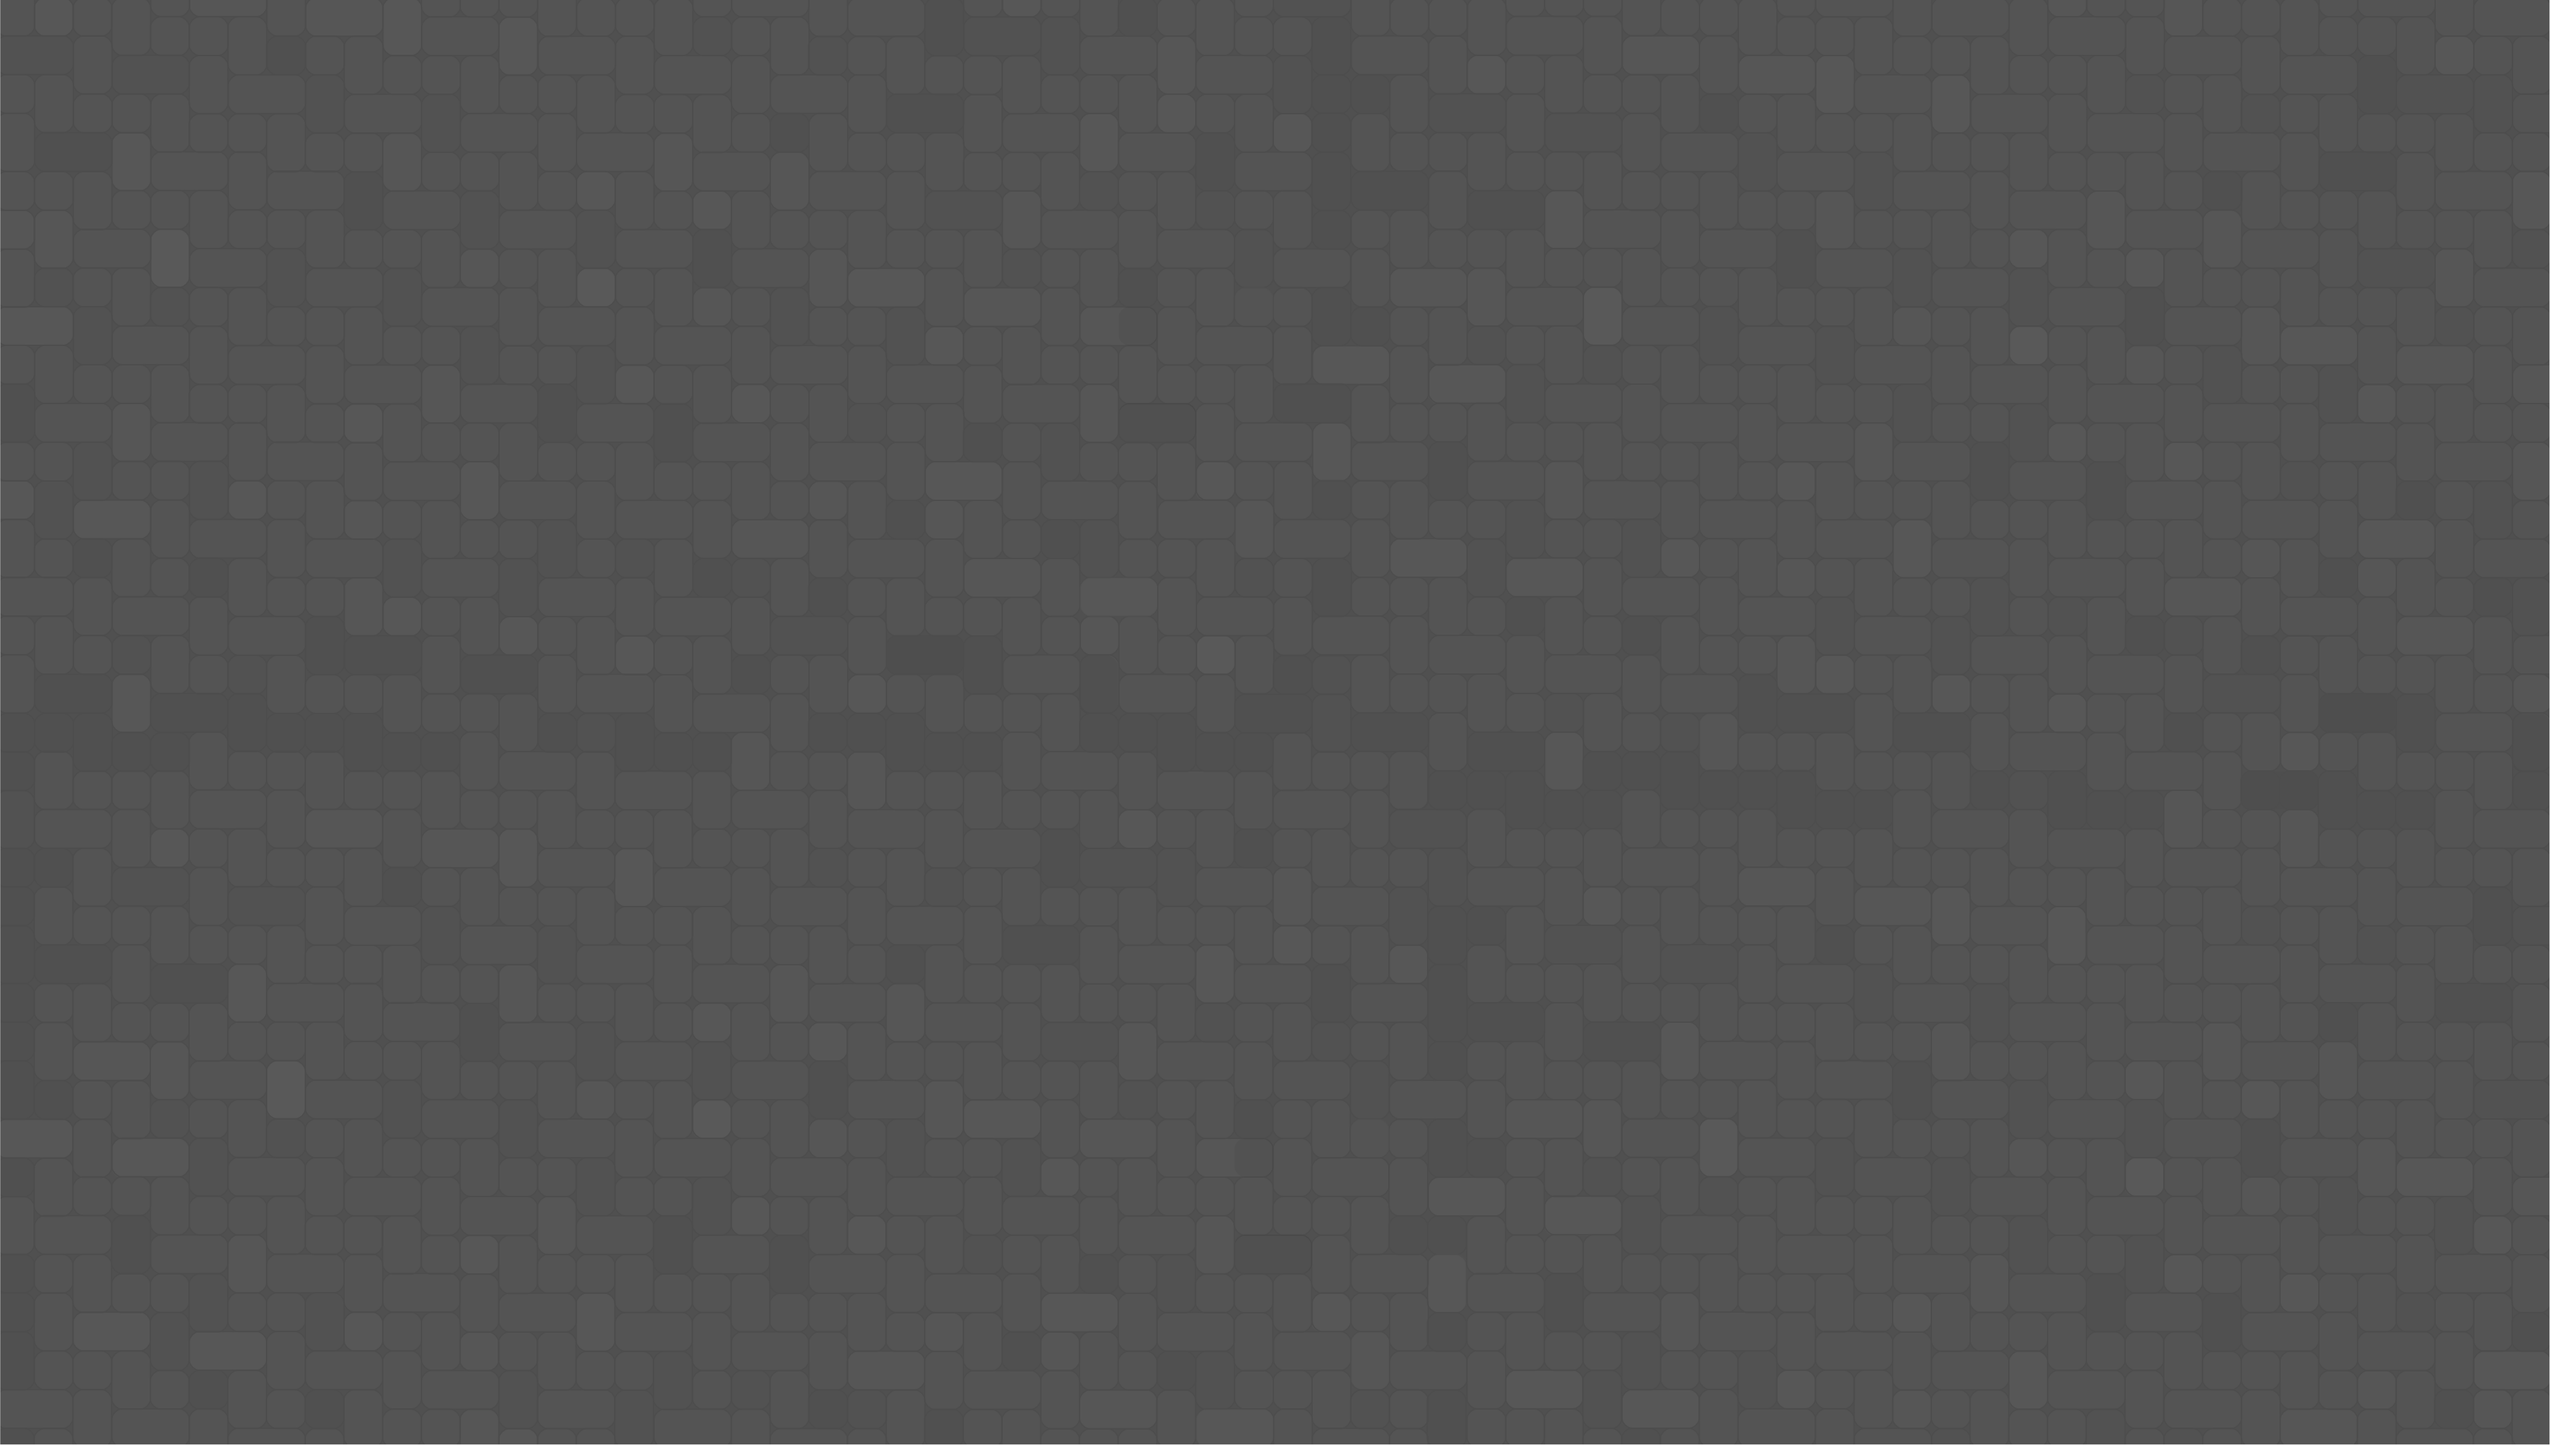
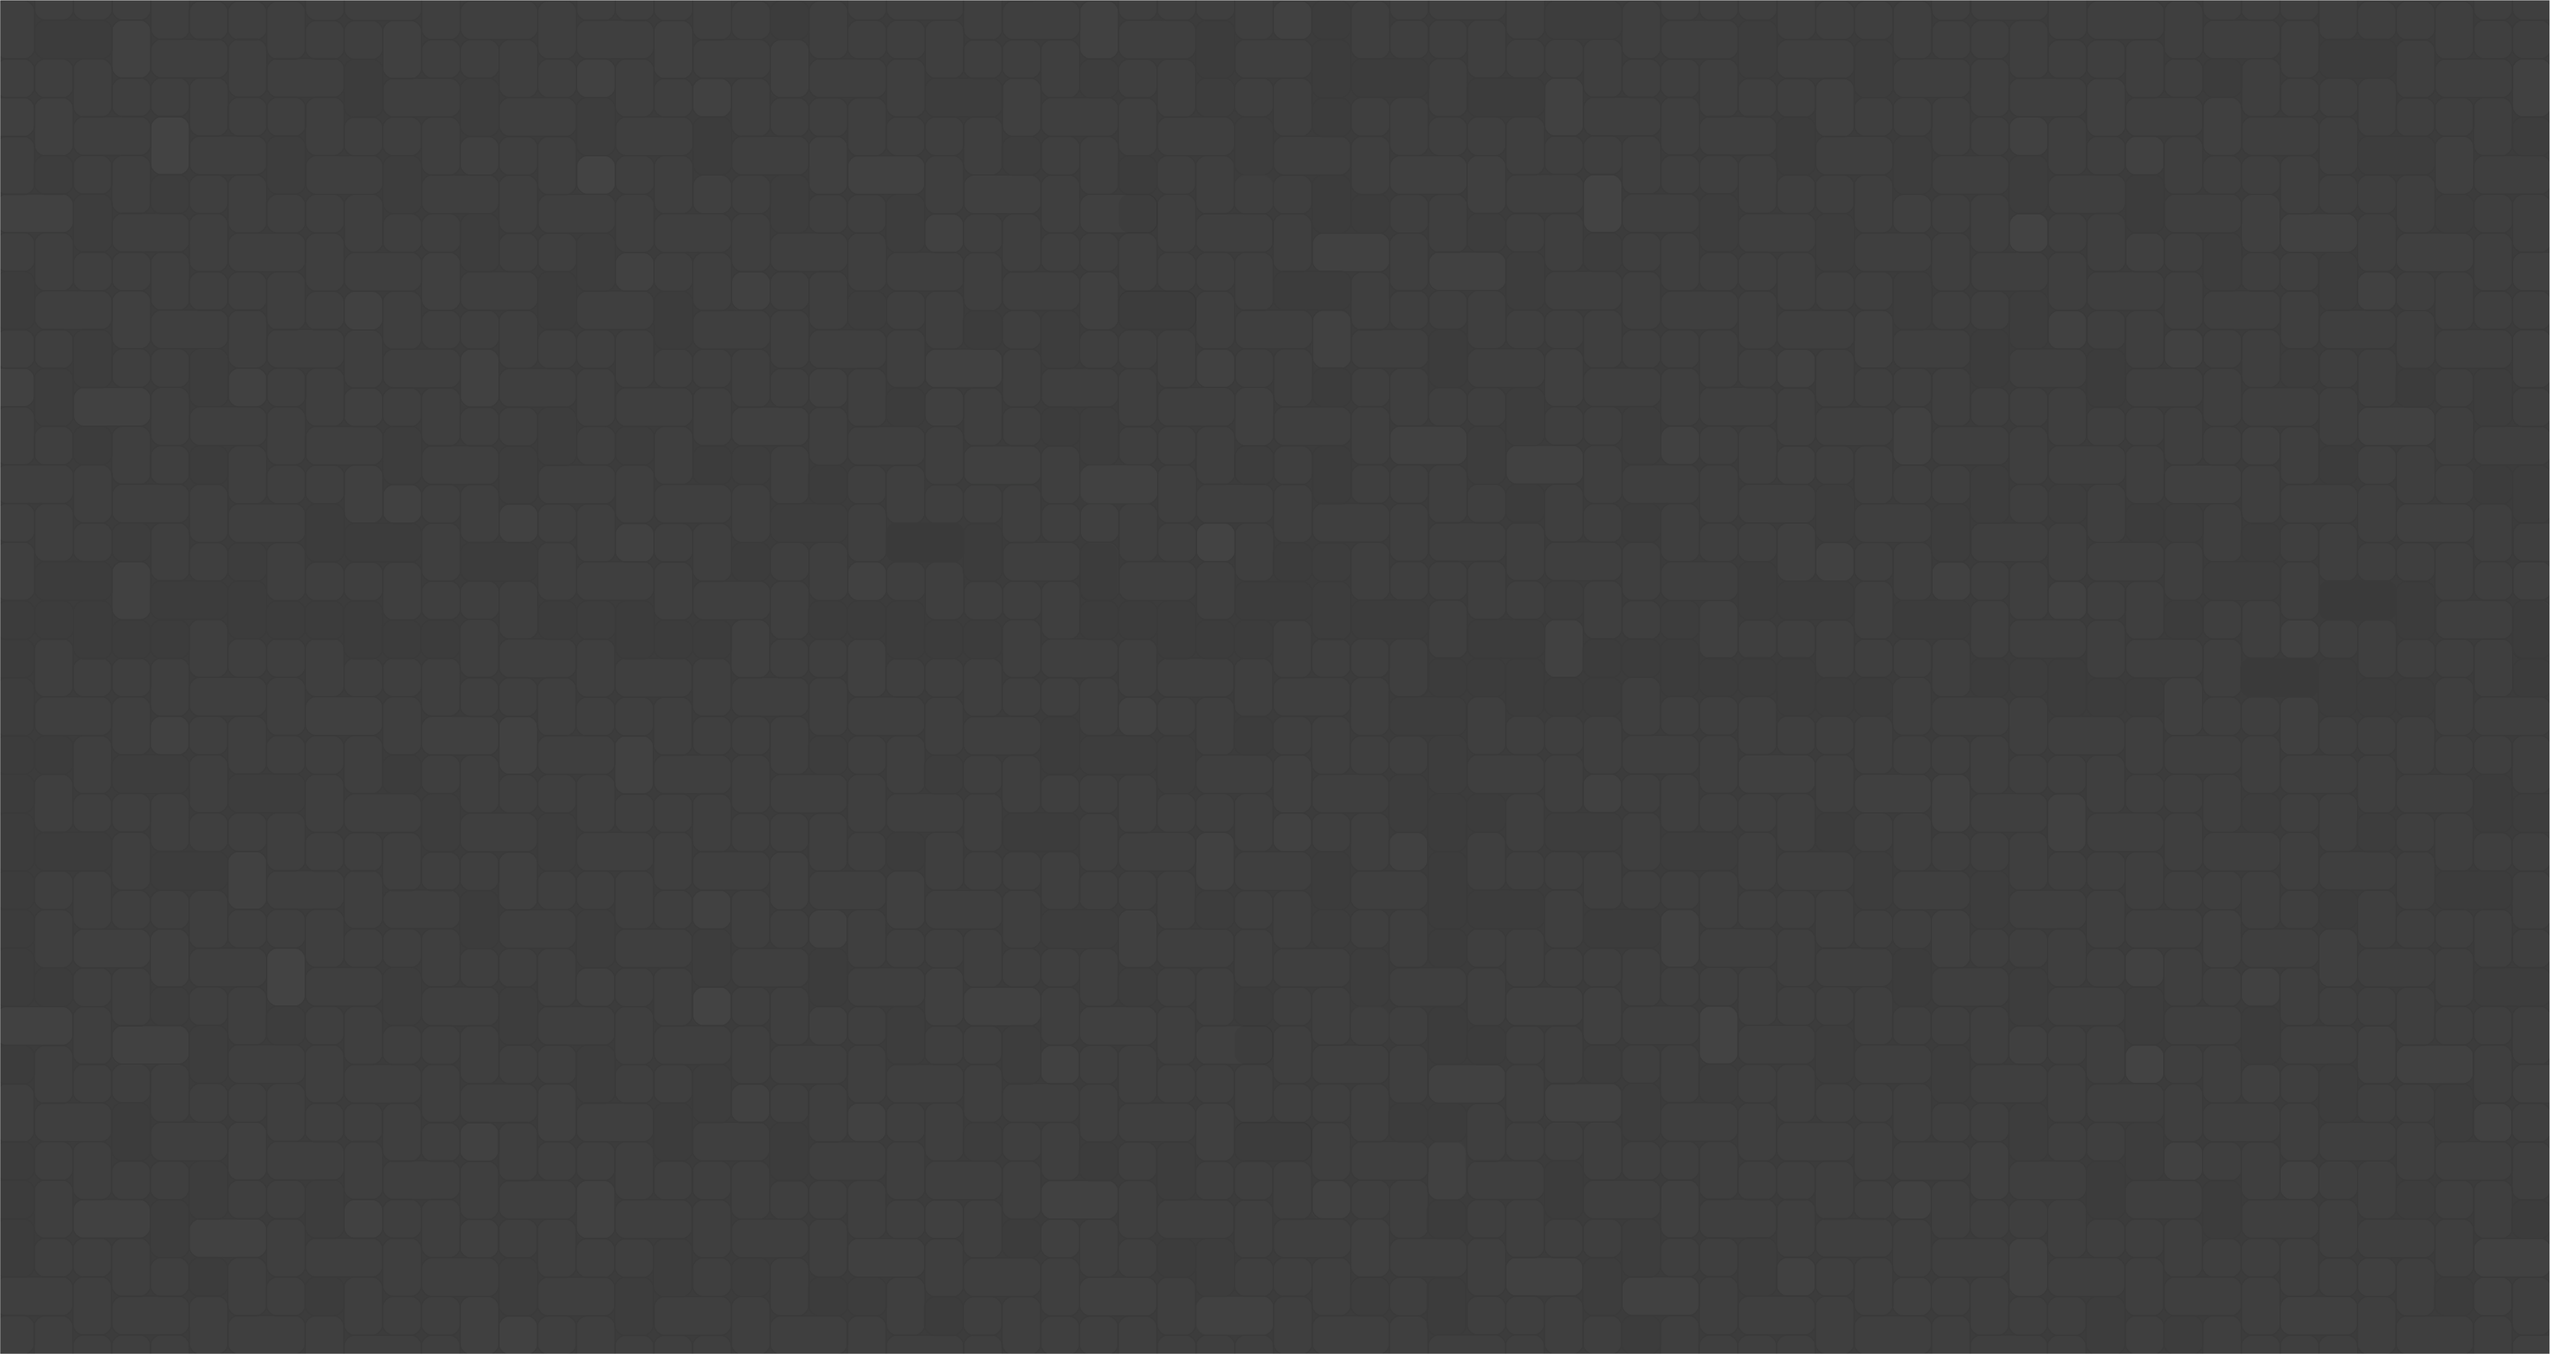
fix background wierdness

diff --git a/src/scss/_products.scss b/src/scss/_products.scss
@@ -9,15 +9,19 @@
   // background-color: col.$color-grey-very-dark;
   color: col.$color-text-light;
   margin-top: 6em;
-  background-color: #505050;
-  background-image: url(../assets/images/Wall.png);
-  background-repeat: no-repeat;
-  background-size: cover;
-  background-position: top left;
+  background-color: #3d3d3d;
+  background-image: url(../assets/images/PhoneWall.png);
+  background-repeat: repeat-y;
+  background-size: contain;
+  background-position: center top;
 
   @include mixins.desktop {
     display: flex;
     justify-content: center;
+    background-image: url(../assets/images/Wall.png);
+    background-repeat: repeat-y;
+    background-size: contain;
+    background-position: center top;
   }
 }
 

diff --git a/src/scss/_landingpage.scss b/src/scss/_landingpage.scss
@@ -1,11 +1,19 @@
+@use "mixins";
 @use "colors" as col;
 
 #landing-page-body {
-  background-color: #505050;
-  background-image: url(../assets/images/Wall.png);
-  background-repeat: no-repeat;
-  background-size: cover;
-  background-position: top left;
+  background-color: #3d3d3d;
+  background-image: url(../assets/images/PhoneWall.png);
+  background-repeat: repeat-y;
+  background-size: contain;
+  background-position: center top;
+
+  @include mixins.desktop {
+    background-image: url(../assets/images/Wall.png);
+    background-repeat: repeat-y;
+    background-size: contain;
+    background-position: center top;
+  }
 }
 
 // landingpage layout

diff --git a/src/scss/_checkout.scss b/src/scss/_checkout.scss
@@ -2,11 +2,18 @@
 @use "colors" as col;
 
 #checkout-body {
-  background-color: #505050;
-  background-image: url(../assets/images/Wall.png);
-  background-repeat: no-repeat;
-  background-size: cover;
-  background-position: top left;
+  background-color: #3d3d3d;
+  background-image: url(../assets/images/PhoneWall.png);
+  background-repeat: repeat-y;
+  background-size: contain;
+  background-position: center top;
+
+  @include mix.desktop {
+    background-image: url(../assets/images/Wall.png);
+    background-repeat: repeat-y;
+    background-size: contain;
+    background-position: center top;
+  }
 }
 
 #checkout {
